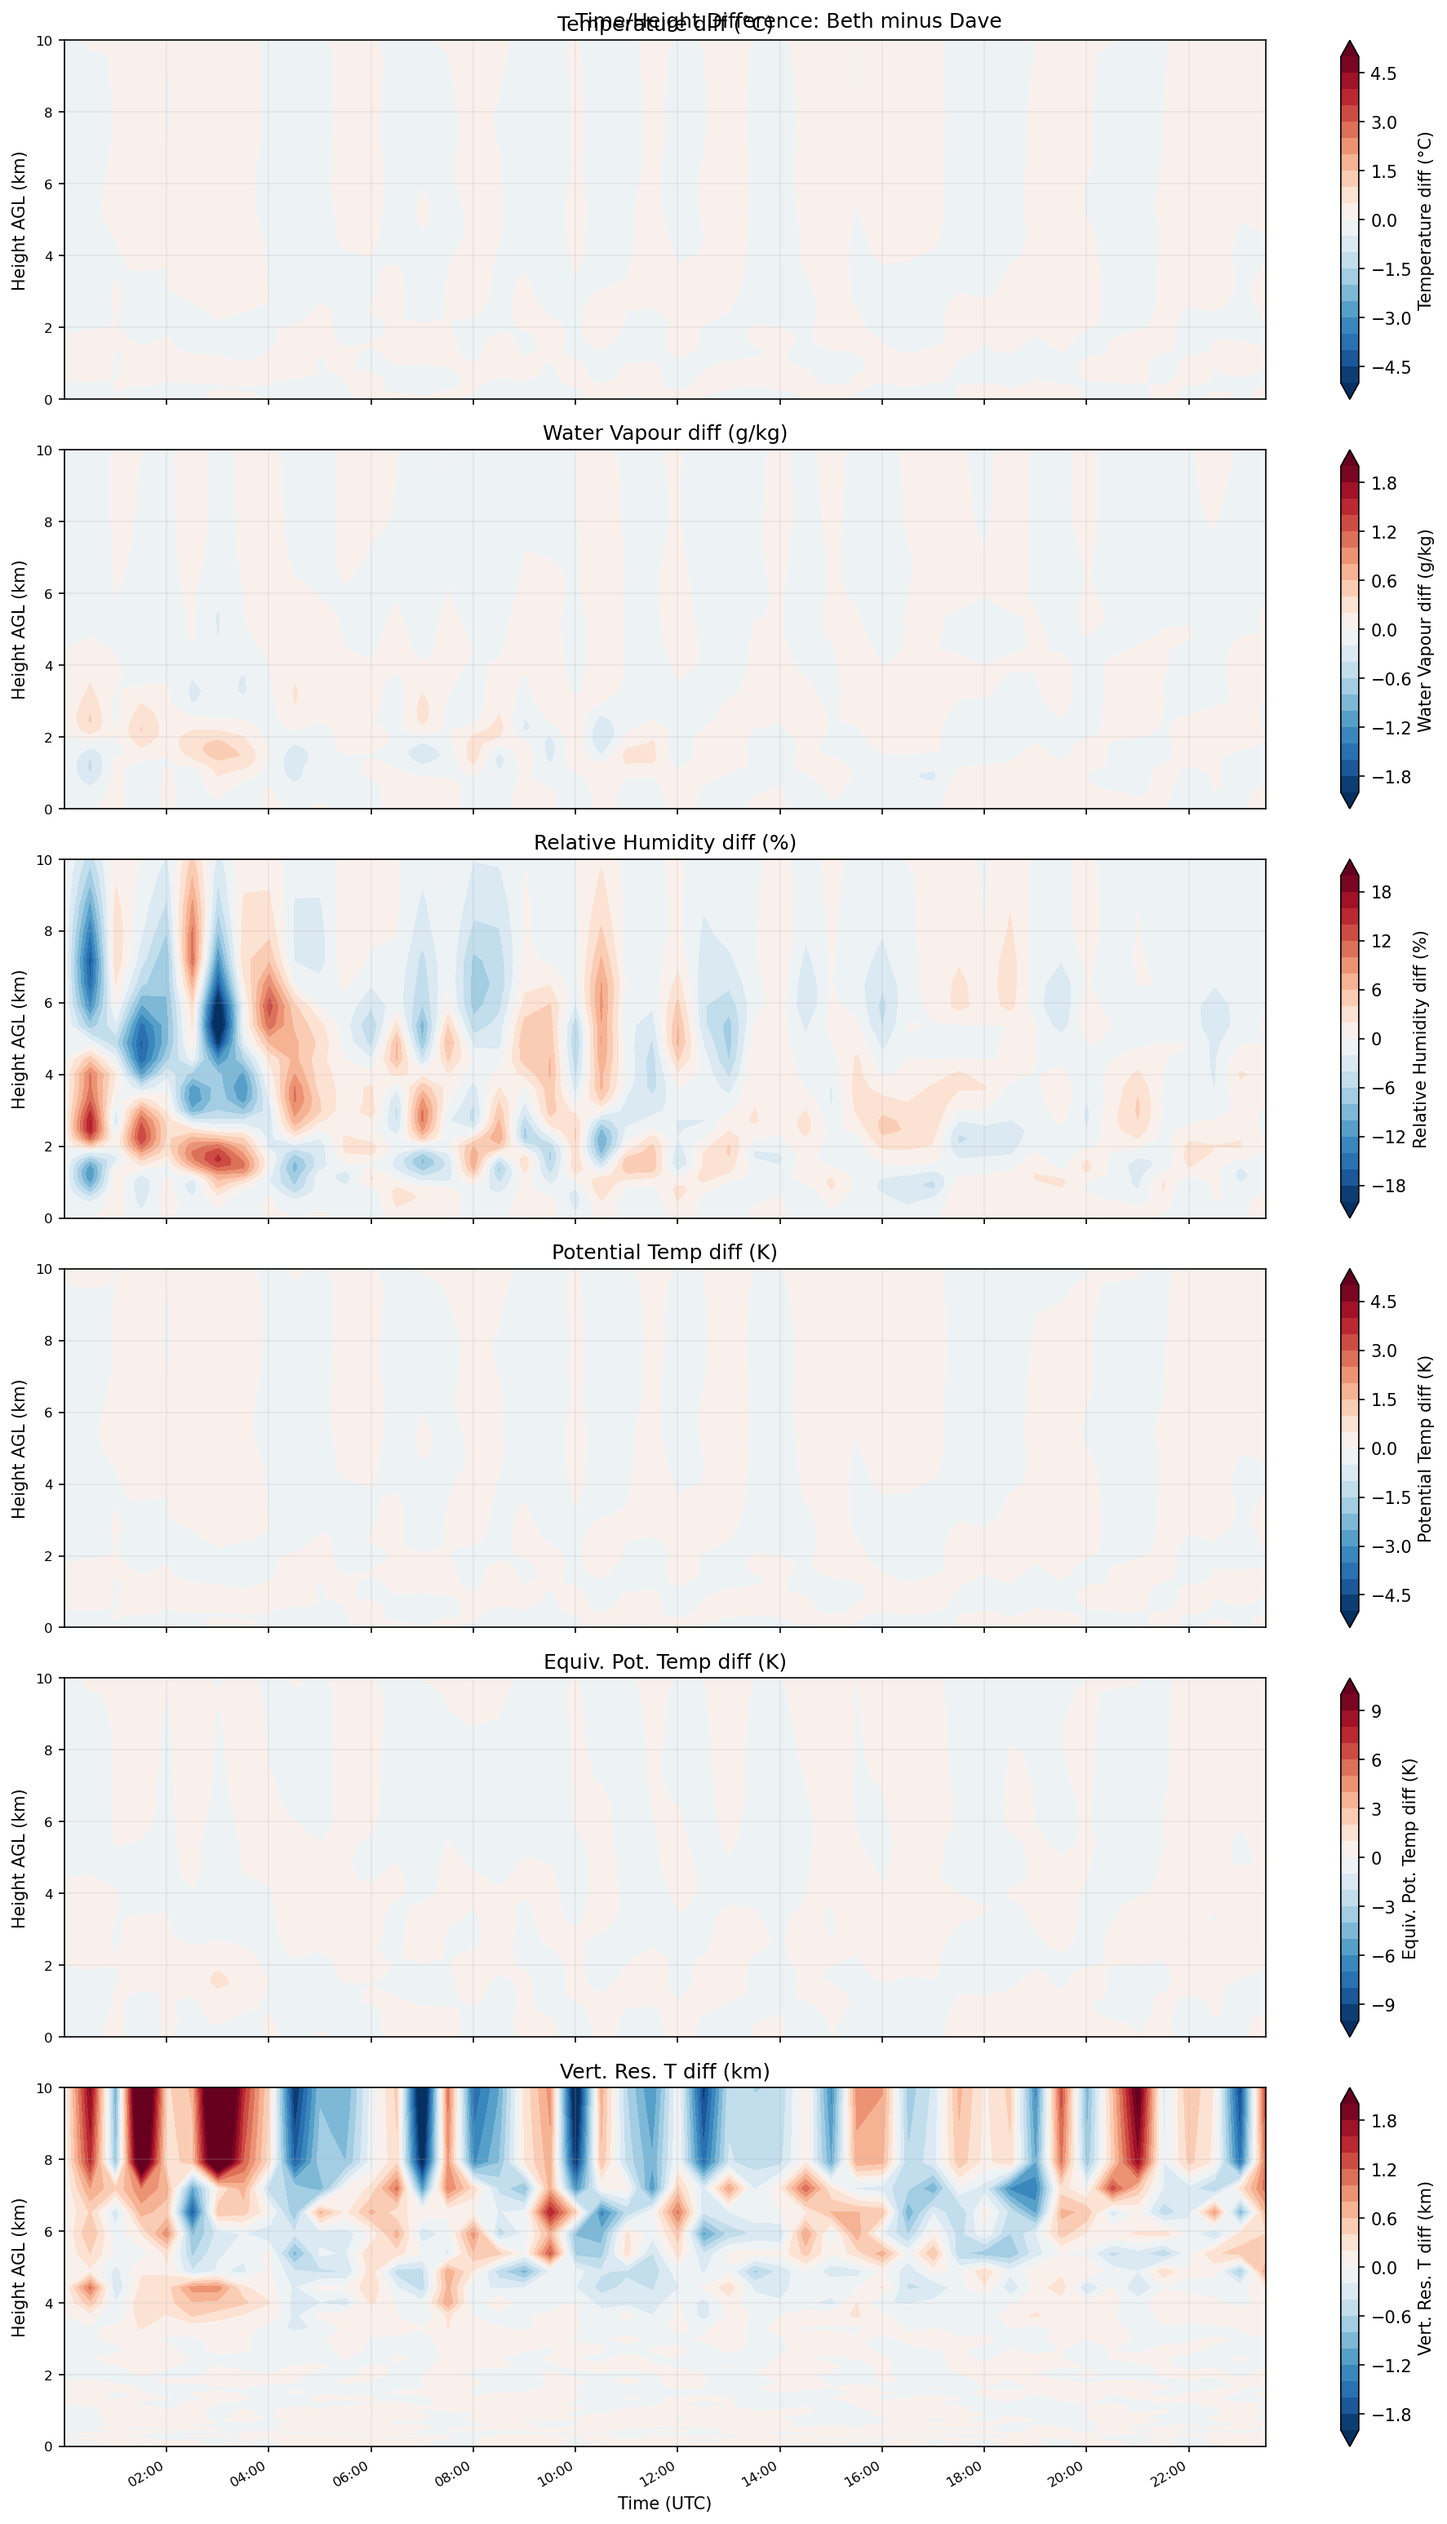
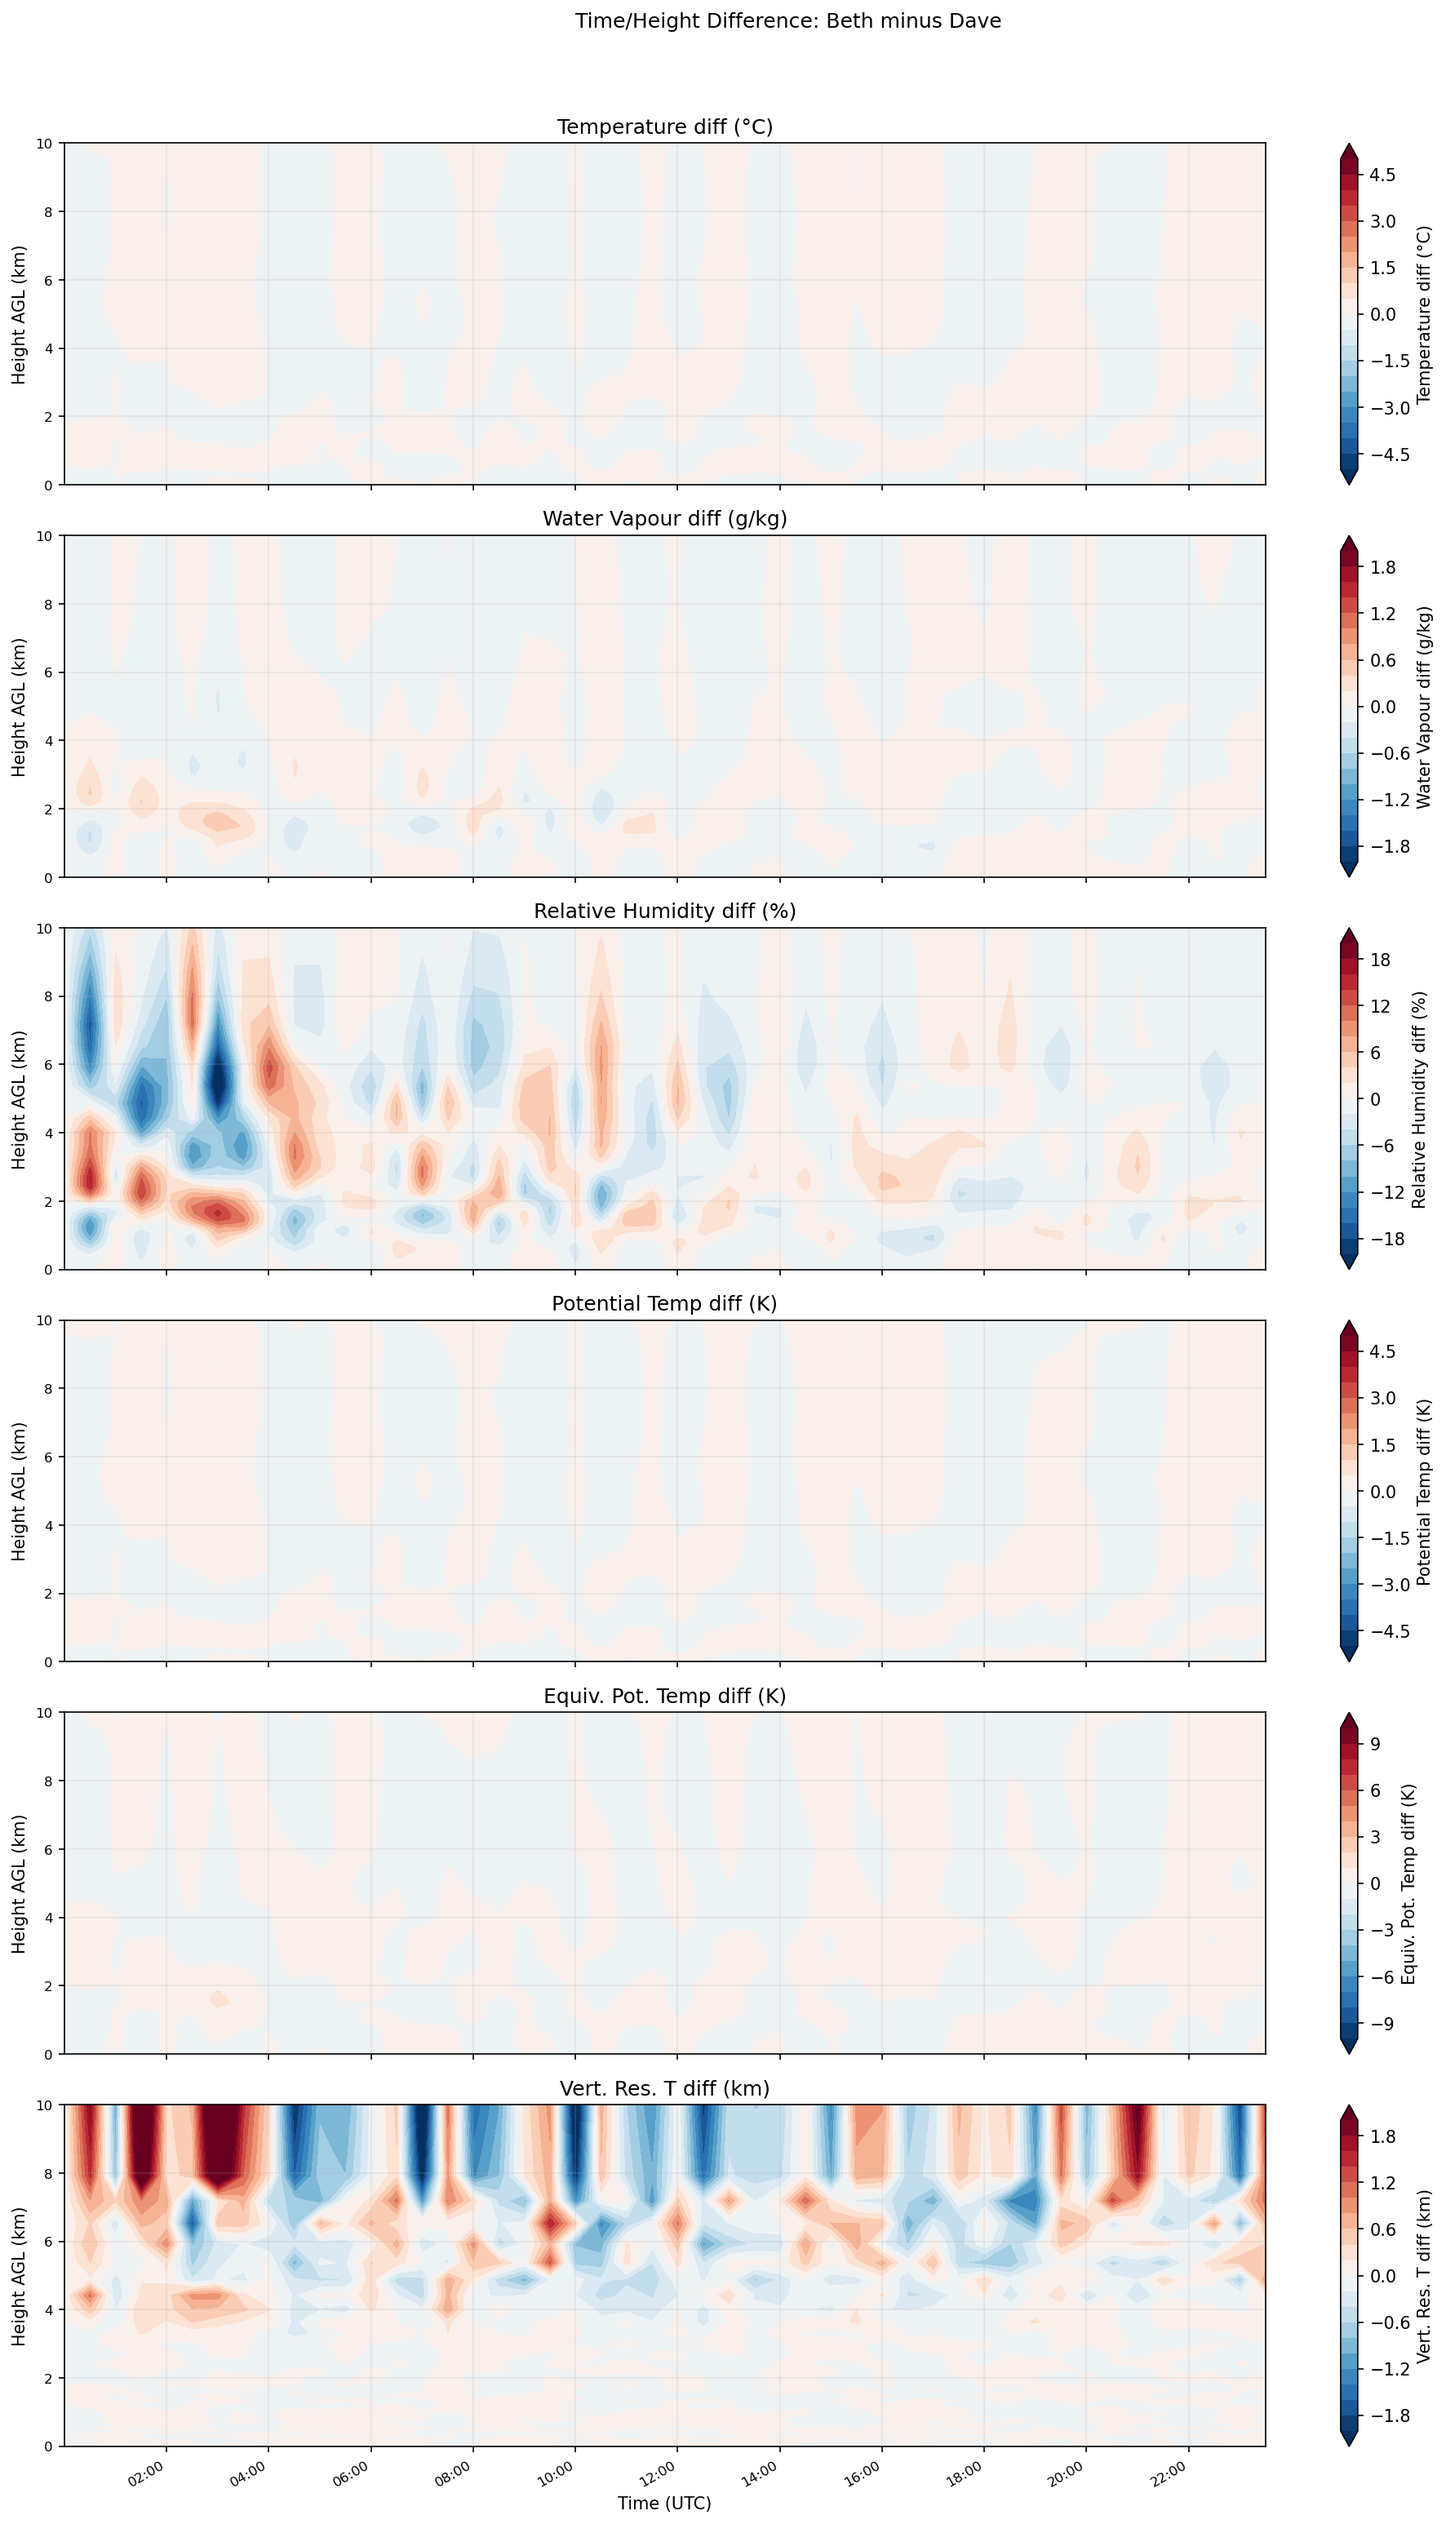
plot title overlap fix

diff --git a/plot_tropoe_output.py b/plot_tropoe_output.py
@@ -426,8 +426,8 @@ def plot_diff_timehgt(da, db_a, label_a, label_b, out_prefix):
         ax.tick_params(labelsize=8)
 
     fmt_xaxis(axes[-1]);
-    fig.autofmt_xdate();
-    plt.tight_layout()
+    fig.autofmt_xdate()
+    plt.tight_layout(rect=[0, 0, 1, 0.96])
     _save(fig, f'{out_prefix}_diff_timehgt.png')
 
 
